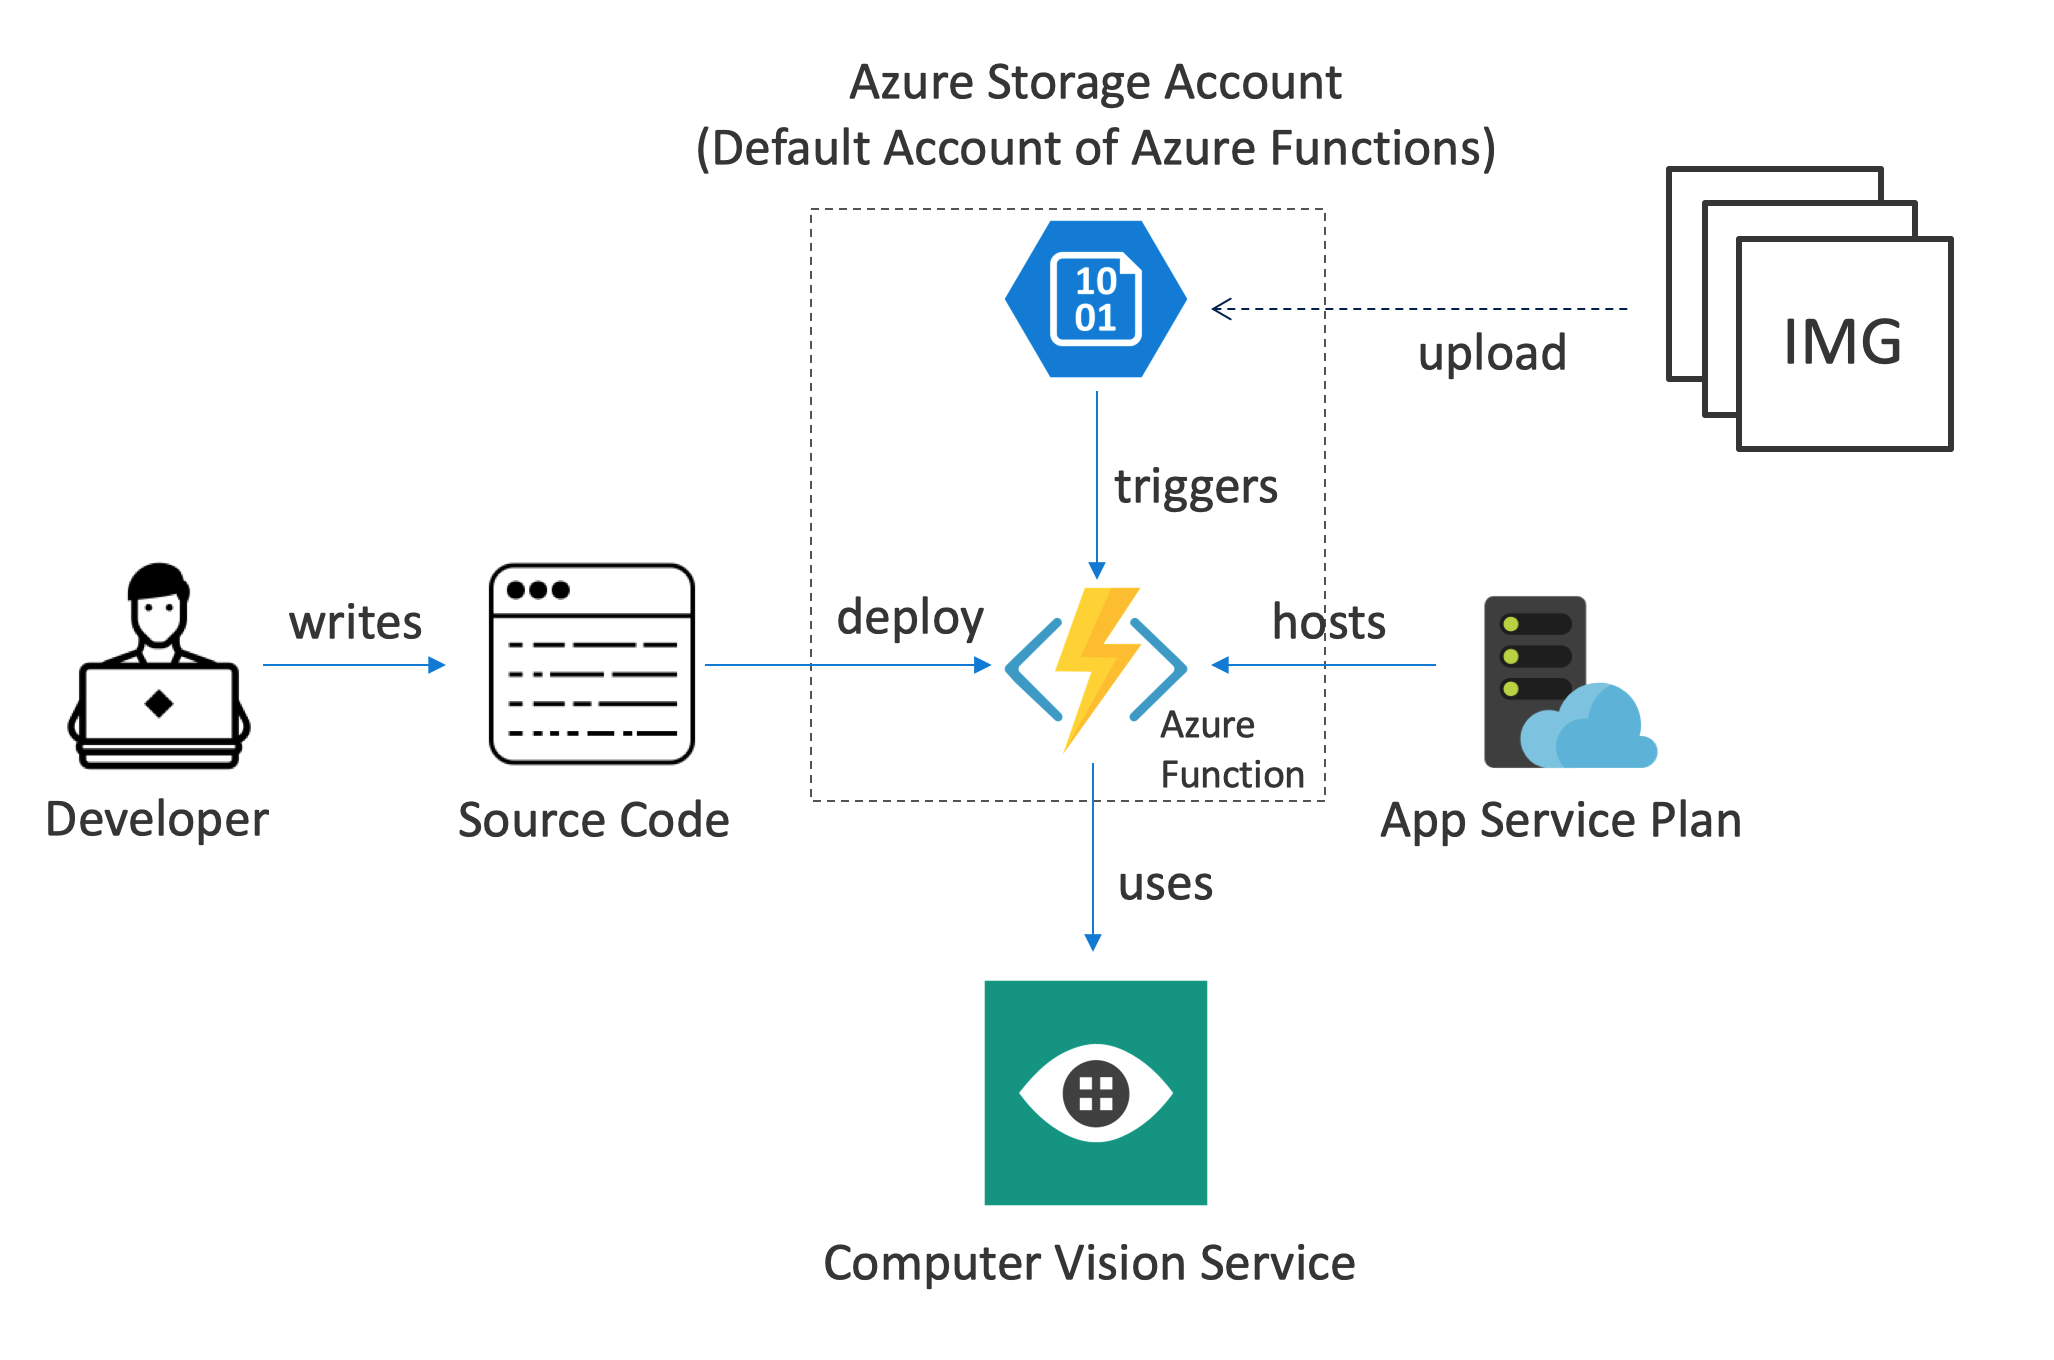
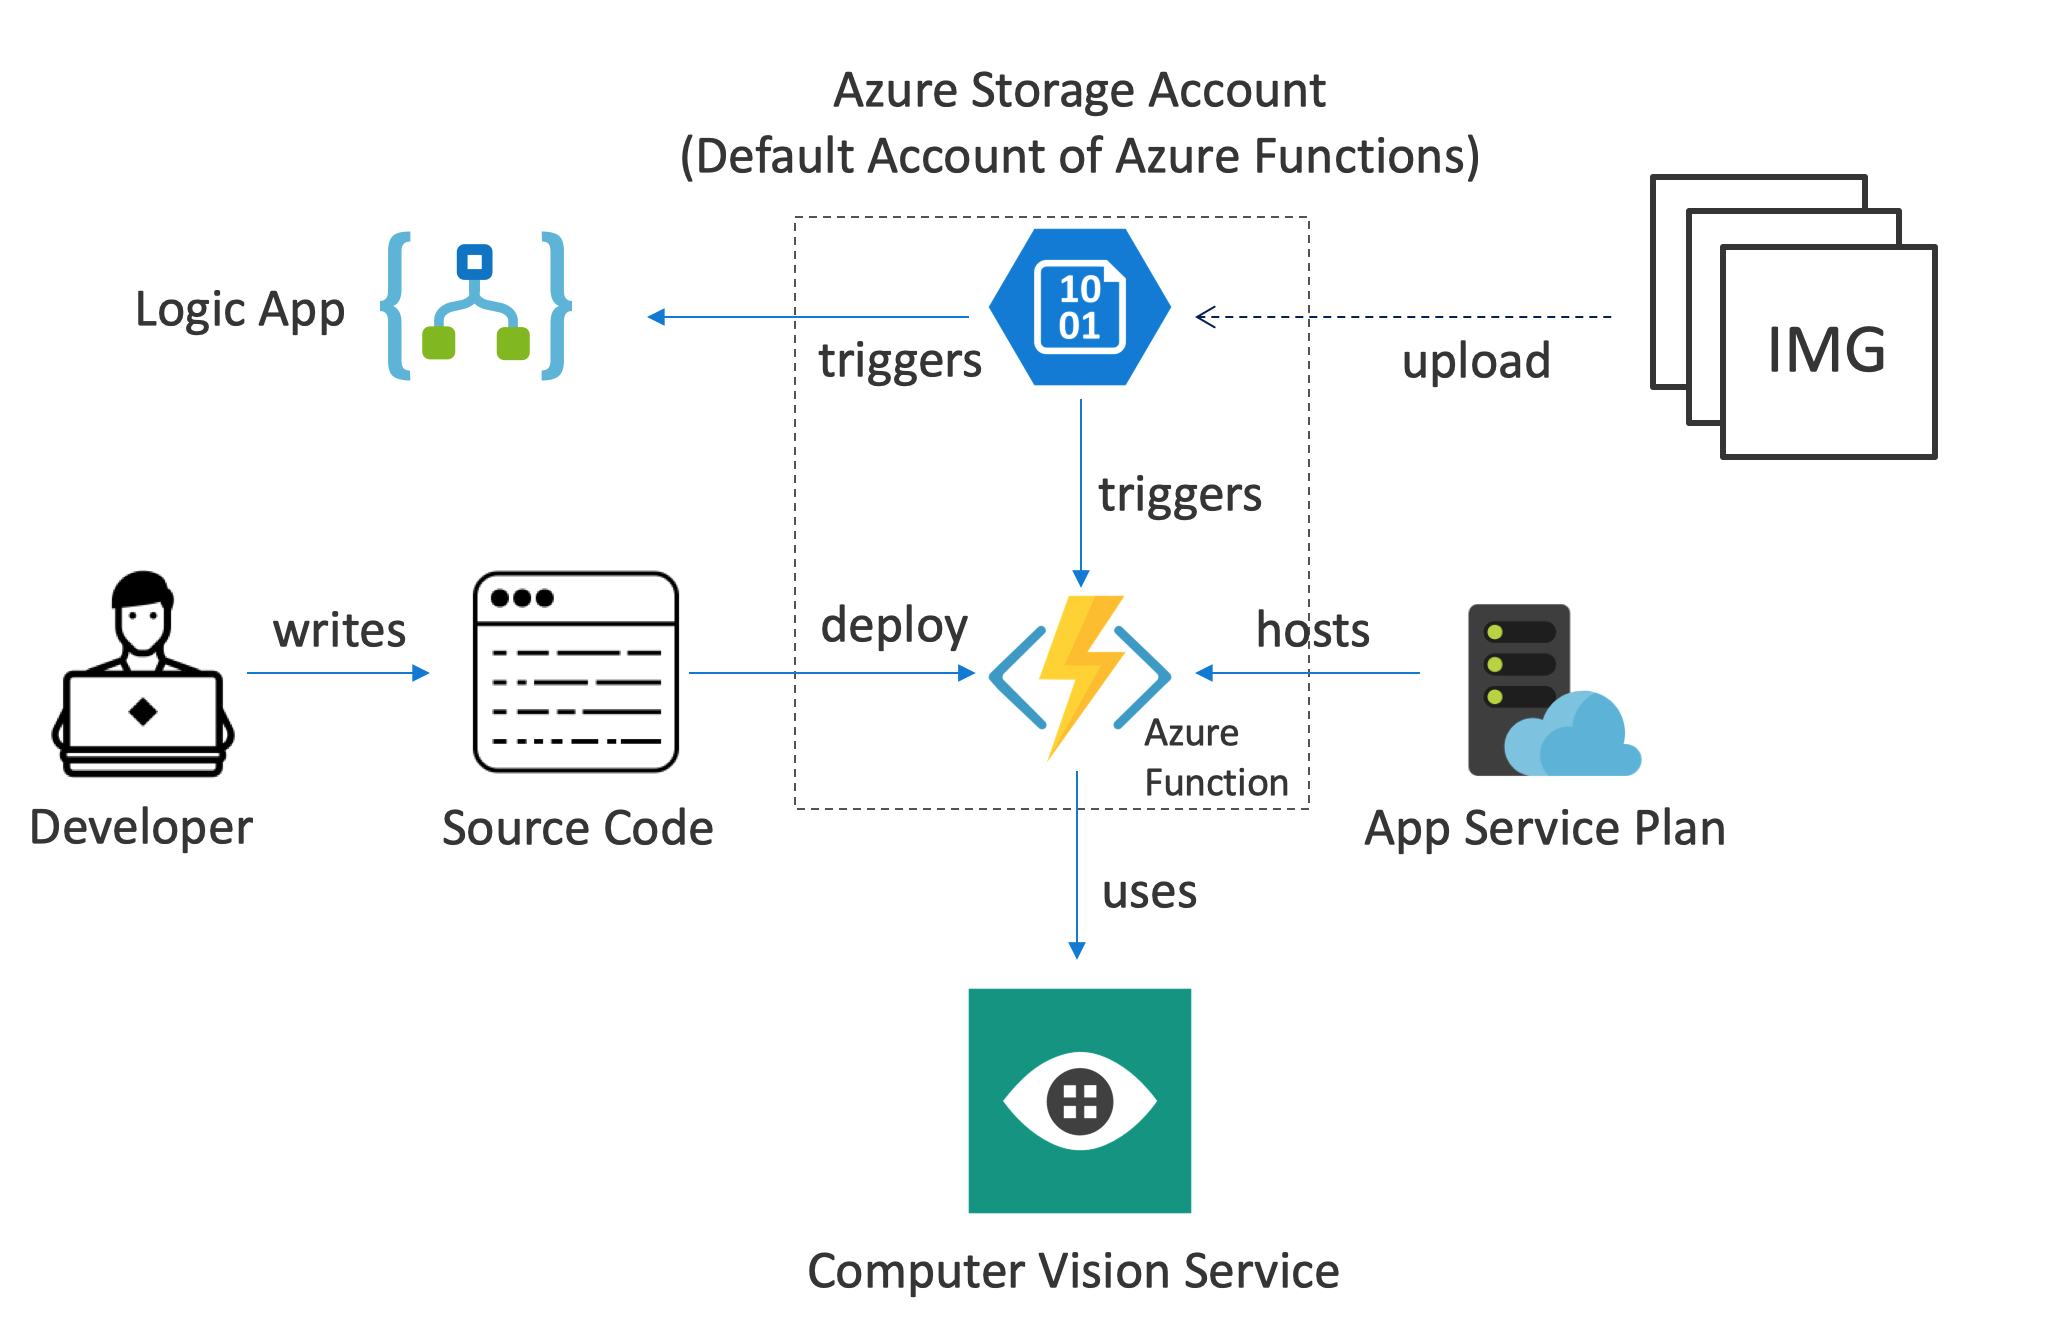
Added Azure Logic Apps.

diff --git a/labs/01_serverless/serverless.md b/labs/01_serverless/serverless.md
@@ -4,7 +4,7 @@
 
 Functions have been the basic building blocks of software since the first lines of code were written and the need for code organization and reuse became a necessity. Azure Functions expand on these concepts by allowing developers to create "serverless", event-driven functions that run in the cloud and can be shared across a wide variety of services and systems, uniformly managed, and easily scaled based on demand. In addition, Azure Functions can be written in a variety of languages, including C#, JavaScript, Python, Bash, and PowerShell, and they're perfect for building apps and nanoservices that employ a compute-on-demand model.
 
-In this lab, you will create an Azure Function that monitors a blob container in Azure Storage for new images, and then performs automated analysis of the images using the Microsoft Cognitive Services [Computer Vision API](https://www.microsoft.com/cognitive-services/en-us/computer-vision-api). Specifically, The Azure Function will analyze each image that is uploaded to the container for adult or racy content and create a copy of the image in another container. Images that contain adult or racy content will be copied to one container, and images that do not contain adult or racy content will be copied to another. In addition, the scores returned by the Computer Vision API will be stored in blob metadata.
+In this lab, you will create an Azure Function that monitors a blob container in Azure Storage for new images, and then performs automated analysis of the images using the Microsoft Cognitive Services [Computer Vision API](https://www.microsoft.com/cognitive-services/en-us/computer-vision-api). Specifically, The Azure Function will analyze each image that is uploaded to the container for adult or racy content and create a copy of the image in another container. Images that contain adult or racy content will be copied to one container, and images that do not contain adult or racy content will be copied to another. In addition, the scores returned by the Computer Vision API will be stored in blob metadata. Finally, you will create an Azure Logic App to create a workflow to notify about rejected image.
 
 The following illustration provides an overview:
 ![Overview](./media/overview.png)
@@ -37,6 +37,8 @@ This hands-on lab includes the following exercises:
 - Exercise 3: Add a subscription key to application settings
 - Exercise 4: Test the Azure Function
 - Exercise 5: View blob metadata
+- Exercise 6: Use a Logic App for a custom workflow
+- Exercise 7: Challenge: Build an approval workflow
 
 Estimated time to complete this lab: **45-60** minutes.
 
@@ -491,6 +493,81 @@ In this exercise, you will use the cross-platform [Microsoft Azure Storage Explo
 
 You can probably imagine how this might be used in the real world. Suppose you were building a photo-sharing site and wanted to prevent adult images from being stored. You could easily write an Azure Function that inspects each image that is uploaded and deletes it from storage if it contains adult content.
 
+## Exercise 6: Add an Azure Logic App to Report Rejections
+
+1. Create a new Azure Logic App by using the resource creation dialog and searching for `logic`:
+
+    ![Create Logic App 1](./media/create-logic-app-1.png)
+
+1. In the creation wizard provide a custom name (1) and re-use the existing resource group (2):
+
+    ![Create Logic App 2](./media/create-logic-app-2.png)
+
+1. When the logic app has been created, open it. You will see a welcome screen and need to scroll down...
+
+    ![Create Logic App 3](./media/create-logic-app-3.png)
+
+1. ... and select 'blank logic app':
+
+    ![Create Logic App 4](./media/create-logic-app-4.png)
+
+1. In the logic app designer search for the 'When a blob is added or modified [...]' trigger:
+
+    ![Create Logic App 5](./media/create-logic-app-5.png)
+
+1. In the selection of the Azure Storage connection for that step, create a connection to the same storage account that we have been using the whole lab:
+
+    ![Create Logic App 6](./media/create-logic-app-6.png)
+
+1. Fill in the details as depicted in the screenshot:
+
+    ![Create Logic App 7](./media/create-logic-app-7.png)
+
+1. Next, we'll append an action. Search for 'Office 365 Outlook' and select it:
+
+    ![Create Logic App 8](./media/create-logic-app-8.png)
+
+1. Select 'Send an email':
+
+    ![Create Logic App 9](./media/create-logic-app-9.png)
+
+1. Press 'Sign in' and authenticate with the credentials provided by the lab instructor or you own:
+
+    ![Create Logic App 10](./media/create-logic-app-10.png)
+
+1. Again, fill in the details for this step. For the recipient mail address, please choose a mail you can verify:
+
+    ![Create Logic App 11](./media/create-logic-app-11.png)
+
+1. Hit 'Save':
+
+    ![Create Logic App 12](./media/create-logic-app-12.png)
+
+1. Upload the image `Image_03.jpg` to the `uploaded` folder. It will be processed by the Azure Function as before and will be put into the `rejected` cotntainer. There, our Azure Logic App Workflow will pick it up and will send out an email.
+
+1. You can observe the process when you go to the Overview area of the service:
+
+    ![Create Logic App 13](./media/create-logic-app-13.png)
+
+1. Eventually it should reach the 'Succeeded' state:
+
+    ![Create Logic App 14](./media/create-logic-app-14.png)
+
+1. And you should see an email in your inbox like this:
+
+    ![Create Logic App 15](./media/create-logic-app-15.png)
+
+## Exercise 7: Challenge - Build an Approval Workflow with Azure Logic Apps
+
+The last exercise in this lab is actually a challenge. Achieve the following:
+
+- Build an approval workflow
+- Images that are stored in the rejected container, trigger the creation of an approval workflow
+- Approved images are moved into the accepted container
+- Rejected images are deleted for good.
+
+> Yes, the setup that we created here is a bit over the top for this use case. But imagine how you can integrate approval workflows and other great workflow-like task into your serverless application with Azure Logic Apps.
+
 ## Summary
 
 In this hands-on lab you learned how to:
@@ -499,5 +576,6 @@ In this hands-on lab you learned how to:
 - Write an Azure Function that uses a blob trigger
 - Add application settings to an Azure Function App
 - Use Microsoft Cognitive Services to analyze images and store the results in blob metadata
+- Use Azure Logic Apps to build serverless workflows
 
 This is just one example of how you can leverage Azure Functions to automate repetitive tasks. Experiment with other Azure Function templates to learn more about Azure Functions and to identify additional ways in which they can aid your research or business.

diff --git a/labs/01_serverless/serverless_python_challenge.md b/labs/01_serverless/serverless_python_challenge.md
@@ -9,25 +9,13 @@ That is, you will create an Azure Function that monitors a blob container in Azu
 The following illustration provides an overview:
 ![Overview](./media/overview.png)
 
-## Setup your Python Environment in the Azure Shell
+## Setup your Development Environment
 
-We need to setup some CLI tooling to get you started with Azure Functions for Python. In order to keep your local environment vanilla, we are going to setup the Azure Shell for you. If you have already a local Python environment, feel free to skip this step and setup your local environment instead. You can follow [this guide](https://docs.microsoft.com/en-us/azure/azure-functions/functions-create-first-function-python) to do so.
+We need to setup some CLI tooling to get you started with Azure Functions for Python. Please follow [the prerequisites section in this guide](https://docs.microsoft.com/en-us/azure/azure-functions/functions-create-first-function-python#prerequisites) to do so. **Again, only do the prerequisites.**
 
-### Step 1: Install the Azure Functions CLI tool
+> You will likely need local admin rights to complete the setup. If you do not have admin rights, you can spin up a virtual machine (Windows or Linux) to setup the environment.
 
-1. Open the Azure Shell.
-1. Issue the following series of commands to install the Azure Functions CLI Tool (`func`):
-
-    ```sh
-    mkdir "${HOME}/.npm-packages"
-    echo 'prefix=${HOME}/.npm-packages' >> ${HOME}/.npmrc
-    echo 'NPM_PACKAGES="${HOME}/.npm-packages"' >> ${HOME}/.bashrc
-    echo 'export PATH="$NPM_PACKAGES/bin:$PATH"' >> ${HOME}/.bashrc
-    echo 'unset MANPATH' >> ${HOME}/.bashrc
-    echo 'export MANPATH="$NPM_PACKAGES/share/man:$(manpath)"' >> ${HOME}/.bashrc
-    source ${HOME}/.bashrc
-    npm install -g azure-functions-core-tools
-    ```
+## Development Environment Validation
 
 1. Type `func`. This should print an output similar to this:
 
@@ -52,60 +40,25 @@ We need to setup some CLI tooling to get you started with Azure Functions for Py
     <... many additional lines... >
     ```
 
-### Step 2: Setup pyenv to get a dedicated local Python version
-
-1. Again, open the Azure Shell or continue working in the current instance.
-
-1. Issue the following series of commands to install [pyenv](https://github.com/pyenv/pyenv):
+1. Setup a local Python Env.
 
     ```sh
-    git clone https://github.com/pyenv/pyenv.git ${HOME}/.pyenv
-    echo 'export PYENV_ROOT="$HOME/.pyenv"' >> ${HOME}/.bashrc
-    echo 'export PATH="$PYENV_ROOT/bin:$PATH"' >> ${HOME}/.bashrc
-    echo -e 'if command -v pyenv 1>/dev/null 2>&1; then\n  eval "$(pyenv init -)"\nfi' >> ${HOME}/.bashrc
-    source ${HOME}/.bashrc
+    # In Bash
+    python3.6 -m venv .env
+    source .env/bin/activate
+
+    # In PowerShell
+    py -3.6 -m venv .env
+    .env\scripts\activate
     ```
 
-1. Type `pyenv`. The output should look like this:
-
-   ```sh
-   pyenv 1.2.9-2-g6309aaf
-   Usage: pyenv <command> [<args>]
-   ```
-
-1. Install the `virtualenv` plugin for `pyenv`:
-
-    ```sh
-    git clone https://github.com/pyenv/pyenv-virtualenv.git $(pyenv root)/plugins/pyenv-virtualenv
-    echo 'eval "$(pyenv virtualenv-init -)"' >> ${HOME}/.bashrc
-    source ${HOME}/.bashrc
-    ```
-
-1. Now setup a local Python version 3.6.8 with venv support:
-
-    ```sh
-    pyenv install 3.6.8
-    pyenv shell 3.6.8
-    pyenv virtualenv venv368 # creates a new virtualenv from the current version
-    pyenv activate venv368
-    ```
-
-    > Everytime you fire up a new Azure Shell instance, you need to activate the environment again with `pyenv activate venv368`.
-
-2. Verify that you have the following output - especially the change in prompt (might change in future versions):
-
-    ```sh
-    pyenv-virtualenv: prompt changing will be removed from future release. configure `export PYENV_VIRTUALENV_DISABLE_PROMPT=1' to simulate the behavior.
-    (venv368) labuser01@Azure:~$
-    ```
-
-3. Type `python --version` and you should see:
+1. Type `python --version` and you should see e.g. 3.6.8 or similar:
 
     ```sh
     Python 3.6.8
     ```
 
-### Step 3: Setting up your Function Boilerplate
+### Setting up your Function Boilerplate
 
 1. Run the following commands which should start the Azure Functions CLI wizard:
 

diff --git a/index.md b/index.md
@@ -7,7 +7,6 @@ layout: home
 ## Labs
 
 1. [Serverless with Azure Functions](./labs/01_serverless/serverless.md) 
-1. [Serverless with Azure Functions - Python Challenge](./labs/01_serverless/serverless_python_challenge.md)
 1. [Introduction to IoT on Azure](./labs/02_iot/iot.md)
 1. [Introduction to Terraform on Azure](./labs/03_terraform/terraform.md)
 1. [Introduction to Containers on Azure](./labs/04_containers_on_azure/containers_on_azure.md)
